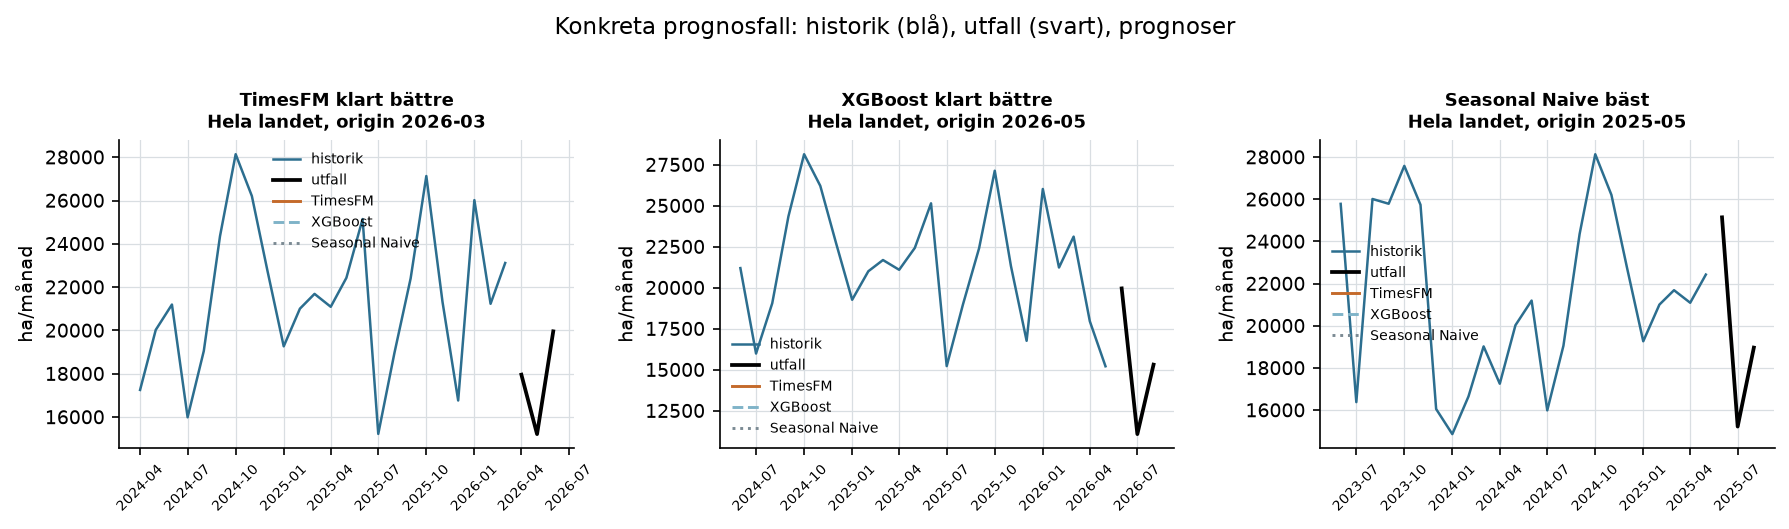
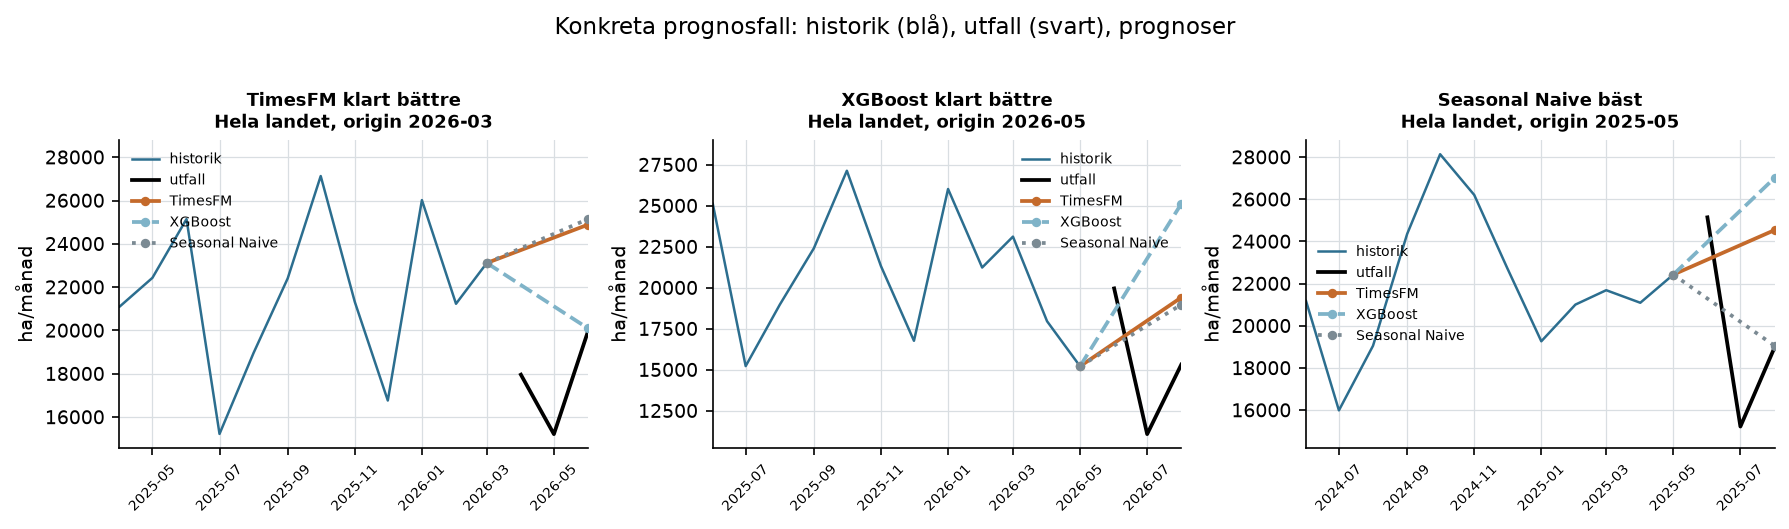
Tydligare README: förklara utvärdering, regimskiften, P10–P90 och toppserier; synliga prognoser i exempelfiguren
- Utvärderings Bullet utsönderklarar 26 serier × 48 startpunkter × 3 horisonter
  och varför det blir ca 3 500 prognoser per modell / ca 35 000 totalt
- regimskifte definierat (nivåskifte med oförändrat säsongsmönster)
- P10–P90 beskrivet som täckningskrav 80 % med mätt täckning per horisont
- toppserier definierade; generiska förbehåll utan nämnd av enskilt företag
- fig_error_examples: prognoslinjer ritades aldrig (enstaka punkt utan markör
  syns inte i matplotlib) — nu linje från historikslut + markör, zoomat sista året

diff --git a/scripts/11_error_analysis.py b/scripts/11_error_analysis.py
@@ -143,8 +143,14 @@ def example_cases(df: pd.DataFrame, wide: pd.DataFrame) -> list[str]:
                                ("seasonal_naive", COLORS["neutral"], ":")):
             r = model_row[model_row["model"] == mdl].sort_values("timestamp")
             if len(r):
-                ax.plot(pd.to_datetime(r["timestamp"]), r["prediction"], color=color, ls=ls,
-                        lw=1.4, label=PRETTY.get(mdl, mdl))
+                # linje från sista historikpunkten till prognospunkten + markör,
+                # annars ritar matplotlib ingenting för en ensam punkt
+                xs = [hist.index[-1], *pd.to_datetime(r["timestamp"])]
+                ys = [hist.values[-1], *r["prediction"].values]
+                ax.plot(xs, ys, color=color, ls=ls, lw=1.8, marker="o", ms=3.5,
+                        label=PRETTY.get(mdl, mdl))
+        # zooma in sista året + prognosperioden så att prognoslinjerna syns tydligt
+        ax.set_xlim(hist.index[-12], pd.Timestamp(origin) + pd.DateOffset(months=3))
         ax.set_title(f"{title}\n{region}, origin {origin:%Y-%m}", fontsize=8.5)
         ax.set_ylabel("ha/månad")
         ax.tick_params(axis="x", rotation=45, labelsize=6.5)

diff --git a/README.md b/README.md
@@ -15,8 +15,6 @@ virkesvolym). Målvariabeln är areal (ha), inte virkesvolym (m³fub); appen erb
 därför en **indikativ volymvy** där prognosbandet omvandlas med landsdelens
 genomsnittliga slutavverkningsfaktor (m³sk/ha, Skogsstyrelsen JO0312_06).
 
-> **Avgränsning:** projektet använder offentlig proxy-data och är **inte** ett
-> Södra-projekt; resultaten säger inget om Södras interna data eller prognosprecision.
 
 ![Target](outputs/figures/fig_target_national.png)
 
@@ -27,9 +25,10 @@ kapacitet i sågverk/fabriker, logistik och prissättning vilar på uppskattning
 av framtida avverkningsvolym. Offentlig statistik om **avverkningsanmälningar**
 (Skogsstyrelsen) publiceras månadsvis och är en tidig, oberoende proxy för
 kommande råvaruaktivitet. Frågan är om den är prognostiserbar — och om en
-foundation-modell för tidsserier (Google TimesFM 3, zero-shot) slår enklare
-alternativ. Specifikationen var metodöppen: baselines är likvärdiga kandidater,
-och ett utfall där TimesFM *förlorar* är lika intressant.
+foundation-modell för tidsserier (Google TimesFM 3, zero-shot) slår de klassiska
+alternativen, från enkla baselines (Naive, Seasonal Naive) till gradient
+boosting (XGBoost). Specifikationen var metodöppen: baselines är likvärdiga
+kandidater, och ett utfall där TimesFM *förlorar* är lika intressant.
 
 ## Data (allt öppet, hämtat via API, reproducerbart)
 
@@ -44,9 +43,14 @@ Detaljerad källkritik, API-särdrag och stationstäckning: [docs/data_inventory
 ## Metod
 
 - **Terminologi:** målvariabeln är *anmäld* areal — en **proxy**, inte faktisk avverkning.
-- **Utvärdering:** rolling-origin-backtesting, en startpunkt per månad 2022M09–2026M08
-  (48 startpunkter), alla 26 serier, horisonterna 1/3/6 månader ⇒ **ca 35 000 prognosvärden**.
-  Vid varje startpunkt ser modellen endast data ≤ startpunkten (hårt läckagetest i testsviten).
+- **Utvärdering:** rolling-origin-backtesting — modellen gör om en prognos vid varje
+  månadsstart ("startpunkt") och jämförs mot utfallet när det kommit in. Här: 48
+  startpunkter (en per månad 2022M09–2026M08) × 26 serier (21 län + 4 landsdelar +
+  Hela landet) × horisonterna 1/3/6 månader. Det ger ca 3 500 utvärderade prognoser
+  per modell, **ca 35 000 totalt över de tio modellvarianterna** (de sista
+  startpunkterna är inte utvärderbara på alla horisonter, eftersom deras utfall
+  ännu inte hunnit in). Vid varje startpunkt ser modellen endast data ≤ startpunkten
+  (hårt läckagetest i testsviten).
 - **Modeller:** Naive, Seasonal Naive (m=12), XGBoost (direkt prognos för flera
   horisonter; förskjutna värden 1/2/3/6/12, rullande medel/std, kalender; omträning
   vid varje startpunkt) och **Google TimesFM 3.0** (330M, zero-shot, MLX-backend
@@ -79,16 +83,22 @@ Huvudfynd:
    och ca 25–30 % bättre än Seasonal Naive vid 1 mån. Zero-shot, utan träning på
    svensk skogsdata.
 2. **Multivariat korsserieinformation hjälper måttligt på länsnivå**
-   (MASE 0,61/0,72/0,77) men ger i praktiken ingen förbättring på toppserierna.
+   (MASE 0,61/0,72/0,77) men ger i praktiken ingen förbättring på toppserierna
+   (de fem aggregerade serierna: Hela landet + de fyra landsdelarna).
 3. **Väder- och pris-kovariater tillför praktiskt taget inget** — marginellt
    *sämre* för TimesFM. Kalender är den enda kovariat som förbättrar resultaten
    (praktiskt taget gratis: modellen ser redan månadsrytmen i sin kontext).
-4. **Baselines vinner vid regimskiften:** Seasonal Naive är starkast vid flera
-   svåra startpunkter (t.ex. startpunkt 2025-06: MAE 1 946 ha mot TimesFMs 6 376) —
-   när nivån skiftar men säsongsmönstret håller vinner naiv säsongsupprepning.
-5. **Prognosintervall (P10–P90):** täckning ca 79 % vid 1 mån (nominellt 80 %) men
-   ca 60 % vid 6 mån — intervallet är för smalt på längre horisonter; kalibrering
-   krävs före beslutsanvändning.
+4. **Baselines vinner vid regimskiften** (plötsliga nivåskiften i serien där
+   säsongsmönstret i sig är oförändrat): Seasonal Naive är starkast vid flera
+   svåra startpunkter (t.ex. startpunkt 2025-06: MAE 1 946 ha mot TimesFMs 6 376).
+   När aktivitetsnivån hoppar men den årliga säsongsvågen ser likadan ut vinner
+   naiv säsongsupprepning — den kopierar fjolårets form, som fortfarande stämmer,
+   medan de tränade modellerna halkar efter det nya nivåläget.
+5. **Prognosintervall (P10–P90):** intervallet mellan 10- och 90-percentilerna
+   bör innehålla utfallet 80 % av gångerna. I backtesting stämmer det vid 1 mån
+   (täckning ca 79 %), men vid 6 mån hamnar bara ca 60 % av utfallen i bandet —
+   modellen är för självsäker på långa horisonter och intervallen behöver
+   kalibreras (breddas) före beslutsanvändning.
 
 Fullständiga tabeller per region/horisont: [outputs/results/](outputs/results/),
 resultatrapport: [docs/experiments_results.md](docs/experiments_results.md).
@@ -99,8 +109,10 @@ resultatrapport: [docs/experiments_results.md](docs/experiments_results.md).
   modeller som missar säsongens *timing* tar stryk ([docs/error_analysis.md](docs/error_analysis.md)).
 - Svagaste serier för TimesFM: volatila småregioner (Gävleborg, Dalarna) där
   enskilda stora avverkningar dominerar månadsbilden.
-- Konkreta fall (TimesFM vinner / XGBoost vinner / Seasonal Naive vinner)
-  visualiseras i figuren nedan.
+- Tre konkreta prognosfall för hela landet (vid 3 månaders horisont) visualiseras
+  i figuren nedan — ett fall där TimesFM var bäst, ett där XGBoost var bäst och
+  ett där Seasonal Naive var bäst. Att alla tre kan vinna på enskilda tillfällen
+  är just därför medelvärdet över alla 26 serier är huvudmåttet.
 
 ![Exempel](outputs/figures/fig_error_examples.png)
 
@@ -109,16 +121,18 @@ resultatrapport: [docs/experiments_results.md](docs/experiments_results.md).
 Prognoser med denna metodik kan vara beslutsstöd för:
 
 - **Råvaruplanering:** 3–6-månadersprognoser per landsdel ger en tidig indikation
-  om avverkningsaktiviteten förväntas stiga eller falla inför inköps- och
+  på om avverkningsaktiviteten förväntas stiga eller falla inför inköps- och
   produktionsplanering.
 - **Leveranskedja och kapacitet:** prognosbanden (P10–P90) kan användas för
   scenarioplanering av transport- och beredningskapacitet.
 - **Inköpsstrategi:** förväntad aktivitetsnivå påverkar prisförhandlingar och
   upphandlingsfrekvens.
 
-Viktiga reservat: målvariabeln är anmälningar (inte leveranser), regionaliteten är
-län/landsdel (inte Södras medlems- eller leveransgeografi), och en produktiv
-vidareutveckling vore Södras interna data + kalibrerade intervall + lokala kovariater.
+Viktiga förbehåll: målvariabeln är anmälda avverkningar (inte faktiska
+leveranser), upplösningen är län/landsdel (inte ett enskilt företags medlems-
+eller leveransgeografi), och en naturlig vidareutveckling vore att koppla in
+intern företagsdata (t.ex. faktiska avverkningar per leverantör), kalibrera
+intervallen och lägga till lokala kovariater.
 
 ## Begränsningar
 
